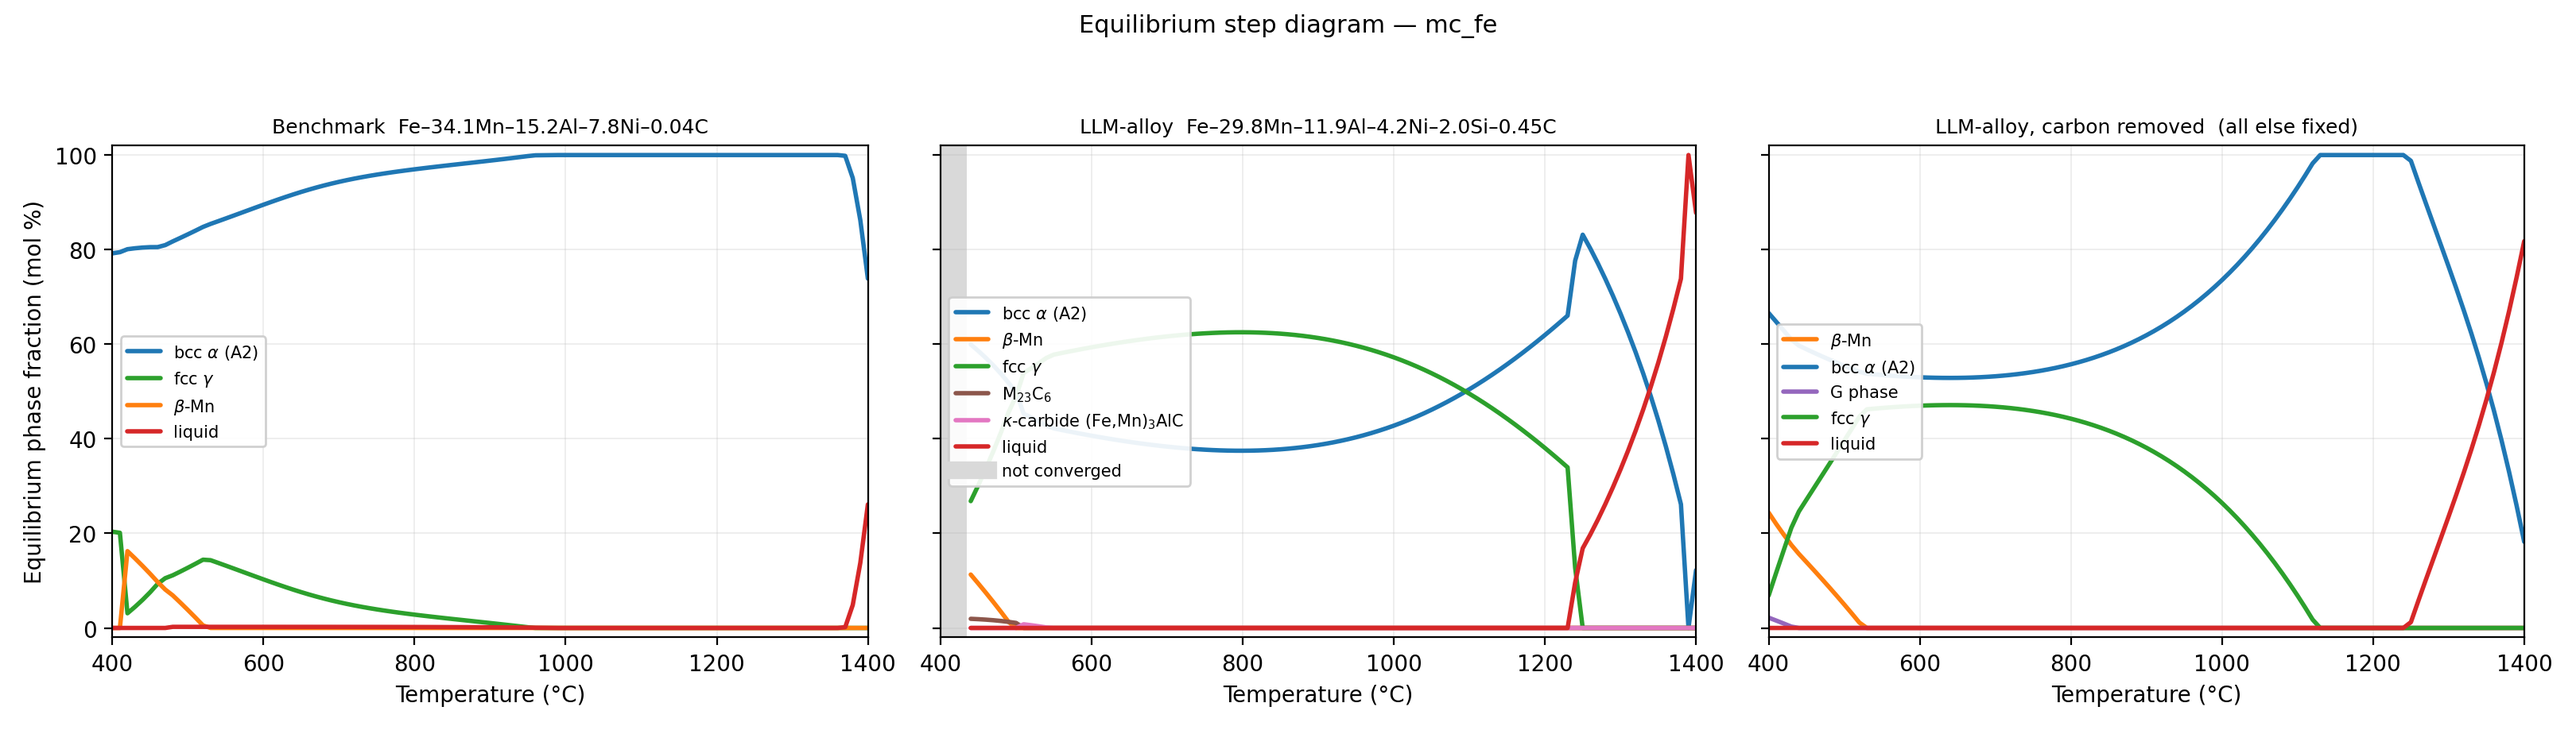
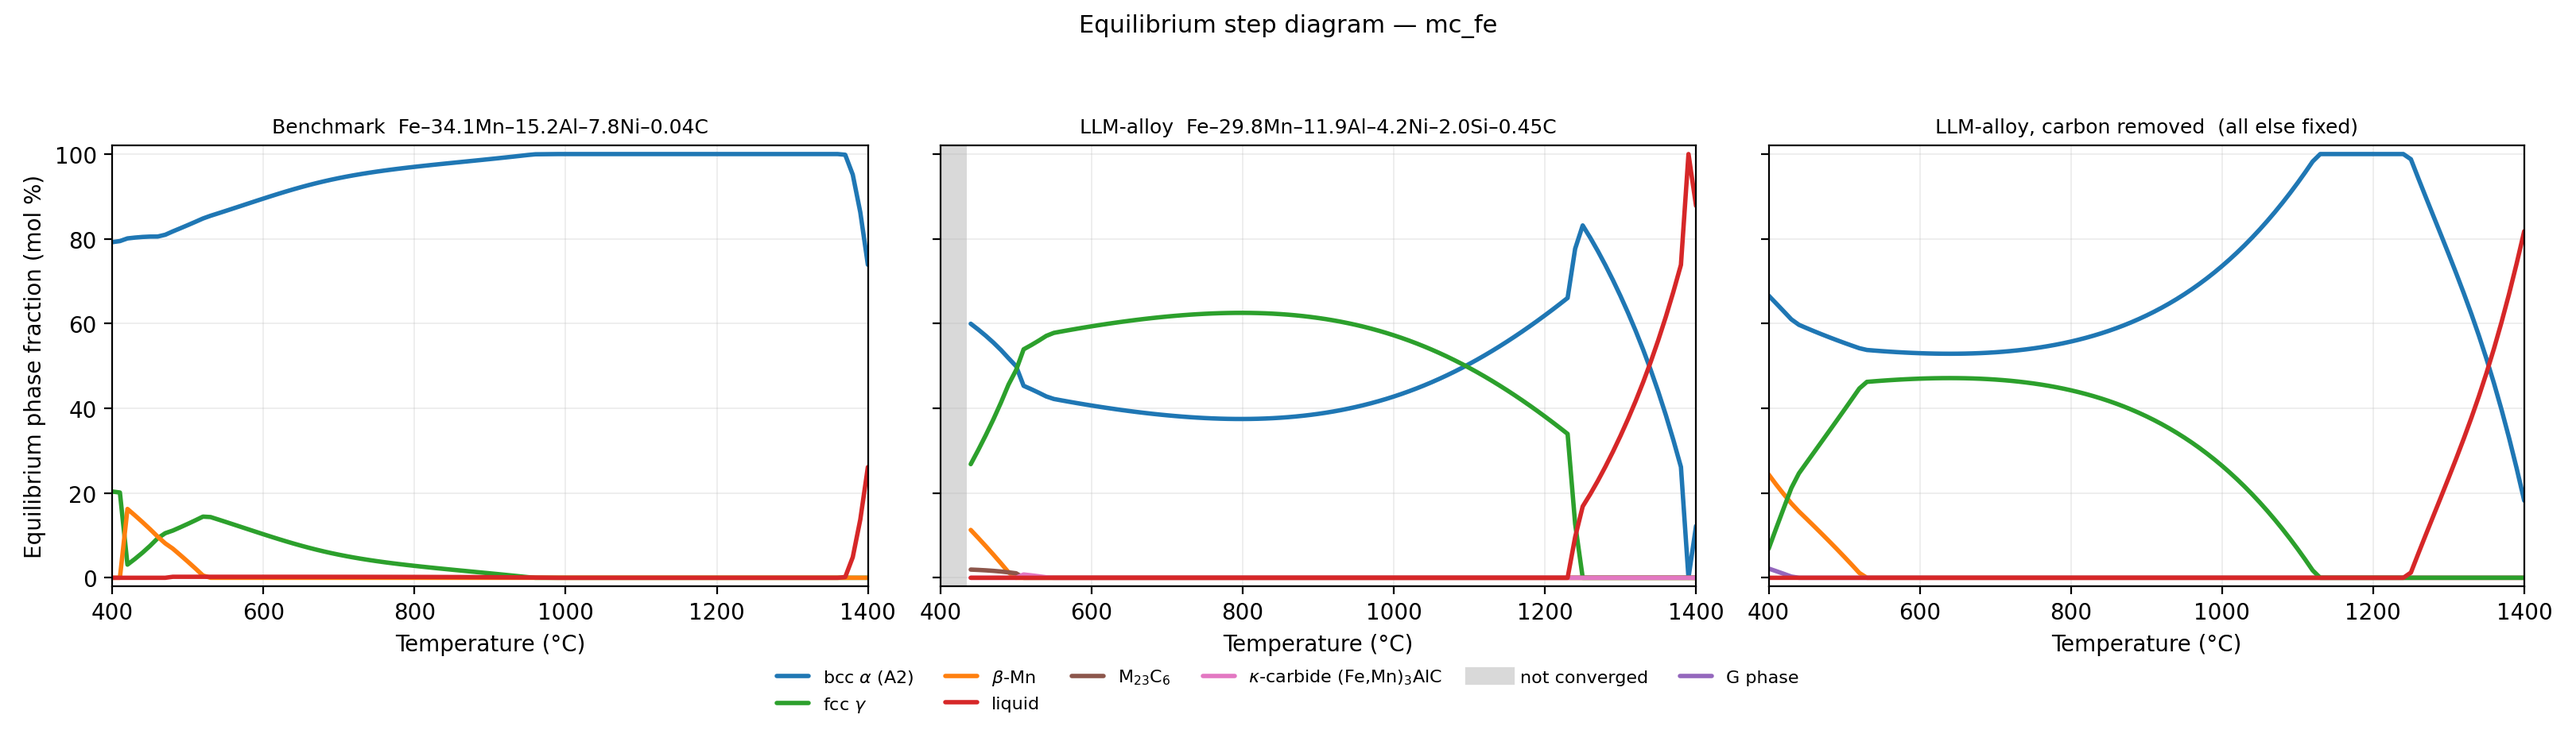
Fig. 7: drop the carbon-free panel per S. Cai, label panels by role, move legend clear of the curves

diff --git a/revision/JMRT-R1/calphad/make_paper_figure.py b/revision/JMRT-R1/calphad/make_paper_figure.py
@@ -31,15 +31,13 @@ T_SOLUTION = 1200.0
 MIN_SHOW = 0.005
 NONCONV = '__NONCONVERGED__'
 
-# Compositions are Table 1 (wt%) converted to at% -- state the unit on the figure,
-# because Table 1 is in wt% and Al roughly doubles on conversion.
+# S. Cai, 2026-08-08: drop the carbon-free panel (the result stays in Table 3) and
+# label the panels by alloy role rather than by chemistry -- the wt%/at% mismatch
+# against Table 1 made the composition strings more confusing than useful. The
+# chemistries now live in the caption.
 PANELS = [
-    ('benchmark', '(a)  Omori-alloy',
-     'Fe–34.1Mn–15.2Al–7.8Ni–0.04C  (at%)'),
-    ('llm', '(b)  AI-alloy',
-     'Fe–29.8Mn–11.9Al–4.2Ni–2.0Si–0.45C  (at%)'),
-    ('llm_noC', '(c)  AI-alloy, carbon removed',
-     'all other elements held fixed'),
+    ('benchmark', '(a)  Omori-alloy', 'benchmark'),
+    ('llm', '(b)  AI-alloy', 'LLM-hypothesized'),
 ]
 
 C_BCC = '#c1272d'
@@ -65,7 +63,7 @@ def main():
     df = pd.read_csv(CSV)
     sub = df[(df['database'] == DATABASE) & (df['label'] != NONCONV)]
 
-    fig, axes = plt.subplots(1, 3, figsize=(12.6, 4.4), sharey=True)
+    fig, axes = plt.subplots(1, len(PANELS), figsize=(9.6, 4.4), sharey=True)
     handles = OrderedDict()
 
     for i, (ax, (alloy, tag, comp)) in enumerate(zip(axes, PANELS)):
@@ -93,7 +91,7 @@ def main():
             line, = ax.plot(temps, 100 * y, color=colour, lw=2.1, zorder=3)
             handles.setdefault(name, line)
 
-        ax.set_title('%s\n%s' % (tag, comp), fontsize=9.5, linespacing=1.35)
+        ax.set_title('%s\n%s' % (tag, comp), fontsize=11, linespacing=1.4)
         ax.set_xlabel('Temperature (°C)')
         ax.set_xlim(400, 1400)
         ax.set_ylim(-2, 102)

diff --git a/revision/JMRT-R1/calphad/plot_step_diagrams.py b/revision/JMRT-R1/calphad/plot_step_diagrams.py
@@ -136,8 +136,7 @@ def main():
                 if np.nanmax(ordered) >= MIN_SHOW:
                     ocol = colours.get('%s[ordered]' % stem, PALETTE[2])
                     ax.fill_between(temps, 0, 100 * ordered, color=ocol, alpha=0.45,
-                                    lw=0, label=pretty('%s[ordered]' % stem)
-                                    + '\n(portion of the bcc that is ordered)')
+                                    lw=0, label=pretty('%s[ordered]' % stem))
 
             for label in plain:
                 if present.get(label, 0) < MIN_SHOW:
@@ -153,11 +152,20 @@ def main():
             ax.set_xlim(temps.min(), temps.max())
             ax.set_ylim(-2, 102)
             ax.grid(alpha=0.25, lw=0.6)
-            ax.legend(fontsize=7.5, loc='center left', framealpha=0.92)
+
+        # One shared legend below the axes. Per-panel legends sat on top of the
+        # curves they were labelling.
+        handles = OrderedDict()
+        for ax in axes:
+            for handle, label in zip(*ax.get_legend_handles_labels()):
+                handles.setdefault(label, handle)
 
         axes[0].set_ylabel('Equilibrium phase fraction (mol %)')
+        fig.legend(list(handles.values()), list(handles.keys()), loc='lower center',
+                   ncol=min(len(handles), 6), fontsize=8, frameon=False,
+                   handlelength=1.8, columnspacing=1.8)
         fig.suptitle('Equilibrium step diagram — %s' % db, fontsize=11)
-        fig.tight_layout(rect=(0, 0, 1, 0.94))
+        fig.tight_layout(rect=(0, 0.07, 1, 0.94))
         out = os.path.join(OUTDIR, 'step_%s.png' % db.replace('.', '-'))
         fig.savefig(out, dpi=200)
         plt.close(fig)

diff --git a/manuscript.md b/manuscript.md
@@ -107,13 +107,13 @@ It is worth noting that the AI alloy after AGG heat treatment showed an X-ray di
 
 ## 3.4 Equilibrium phase stability
 
-**Fig. 7** shows the calculated equilibrium step diagrams for the two alloys as cast and for the carbon-free virtual variant of the AI-alloy, using the measured chemistries of **Table 1**.
+**Fig. 7** shows the calculated equilibrium step diagrams for the two alloys as cast, using the measured chemistries of **Table 1**. The virtual carbon-free composition described in Sec. 2.6 was evaluated on the same basis; because all three databases agree on it, it is reported numerically in **Table 3** rather than plotted.
 
-The Omori-alloy (**Fig. 7a**) reproduces the phase sequence its processing route assumes. A single-phase disordered bcc α field opens at ≈1130 °C and extends to the top of the calculated range, so the 1200 °C solution treatment of Sec. 2.2 lies inside it. On cooling below ≈1090 °C the bcc orders: between ≈700 and 1000 °C the calculated bcc is fully B2-ordered and accounts for 19–21% of the alloy, the balance being γ. The equilibrium state below ≈1090 °C is thus B2 + γ, and not the coherent B2-in-α nanostructure on which the benchmark's super-elasticity actually rests; that nanostructure is a kinetically arrested approach to this equilibrium, obtained by quenching the single-phase α and ageing it where B2 can order but γ cannot yet nucleate. What the calculation establishes is that both conditions the processing route requires are available and contiguous: a temperature at which the alloy is single-phase α, and a range immediately below it in which that α has a thermodynamic driving force to order. Nothing about this alloy was fitted here; the calculation is a control, and it recovers the ≈20% ordered bcc that is observed directly in **Fig. 4c**.
+The Omori-alloy (**Fig. 7a**) reproduces the phase sequence its processing route assumes. A single-phase disordered bcc α field opens at ≈1140 °C and extends to the top of the calculated range, so the 1200 °C solution treatment of Sec. 2.2 lies inside it. On cooling below ≈1090 °C the bcc orders: between ≈700 and 1000 °C the calculated bcc is fully B2-ordered and accounts for 19–21% of the alloy, the balance being γ. The equilibrium state below ≈1090 °C is thus B2 + γ, and not the coherent B2-in-α nanostructure on which the benchmark's super-elasticity actually rests; that nanostructure is a kinetically arrested approach to this equilibrium, obtained by quenching the single-phase α and ageing it where B2 can order but γ cannot yet nucleate. What the calculation establishes is that both conditions the processing route requires are available and contiguous: a temperature at which the alloy is single-phase α, and a range immediately below it in which that α has a thermodynamic driving force to order. Nothing about this alloy was fitted here; the calculation is a control, and it recovers the ≈20% ordered bcc that is observed directly in **Fig. 4c**.
 
 The AI-alloy behaves differently in every respect that matters (**Fig. 7b**). At 1200 °C it is not single-phase but a duplex mixture of 71.1% α and 28.9% γ. Its single-phase α field does not open until ≈1340 °C — some 140 °C above the 1200 °C ceiling imposed by oxidation and furnace contamination (Sec. 2.2). The margin is in fact larger than that ceiling alone implies: mc_fe, the only database here carrying all six elements plus P, places the onset of incipient melting in this alloy at ≈1240 °C, so the single-phase α field would be unreachable even if oxidation were not the limiting factor. The databases do not agree on the solidus — mpea-02b returns no liquid at all below 1400 °C — but they agree on what matters here, which is that the temperature at which this composition becomes single-phase α lies outside the window in which it can be annealed. Between ≈850 and ≈1050 °C the alloy is calculated to be fully austenitic. Ordered bcc appears only below ≈850 °C, reaches at most ≈11% at 400 °C, and forms within a γ matrix rather than an α one. There is thus no temperature at which this composition can be solution-treated to single-phase α and subsequently aged into coherent ordered precipitates within that α — the sequence on which the benchmark relies.
 
-Removing carbon and holding every other element fixed (**Fig. 7c**) restores the missing field. The single-phase α window opens at ≈1150 °C instead of ≈1340 °C, so the 1200 °C treatment once again lands inside it and the alloy solution-treats to 100% α exactly as the benchmark does. All three databases agree on this result despite covering different element sets (**Table 3**).
+Removing carbon and holding every other element fixed restores the missing field, and does so in every database. The single-phase α window opens at ≈1150 °C instead of ≈1340 °C in mpea-02b and at ≈1160 °C instead of ≈1390 °C in PrecHiMn-04, while mc_fe — which returns no single-phase α at all for the carbon-bearing composition below 1400 °C — places it at ≈1130 °C. The 1200 °C solution treatment therefore lands inside the single-phase field once carbon is removed, and the alloy reaches 100% α exactly as the benchmark does, in all three databases and despite their covering different element sets (**Table 3**).
 
 **Table 3.** Calculated equilibrium phase fractions (mol%) at 1200 °C, the solution-treatment temperature. The Omori-alloy cannot be evaluated in PrecHiMn-04, which contains no Ni.
 
@@ -125,7 +125,7 @@ Removing carbon and holding every other element fixed (**Fig. 7c**) restores the
 
 Two further predictions bear on phases reported in Sec. 3.3. Carbide phases are calculated to be stable only well below the processing range: M₂₃C₆ appears in mpea-02b only below ≈420 °C, and κ-(Fe,Mn)₃AlC reaches 0.2–2.4% below ≈590 °C in PrecHiMn-04 and 0.1–0.8% between 510 and 540 °C in mc_fe. Neither is expected at or near 1200 °C. Separately, the ordered bcc of PrecHiMn-04 — the only description here capable of returning D0₃ — refines to the disordered A2 state at every temperature calculated, indicating that at ≈12 at% Al this composition lies below the equilibrium Fe₃Al D0₃ field.
 
-![**Fig. 7.** Calculated equilibrium step diagrams (mpea-02b database) for (a) the Omori-alloy, (b) the AI-alloy, and (c) the AI-alloy with carbon removed and all other elements held at their measured values. Compositions are the measured ICP-AES chemistries of Table 1 converted from wt% to at%; mpea-02b does not model Si, which was therefore omitted and the remaining elements renormalized (Sec. 2.6). The shaded band is the ordered (B2) portion of the total bcc fraction. The dashed line marks the 1200 °C solution-treatment temperature.](figures/Figure_7.png)
+![**Fig. 7.** Calculated equilibrium step diagrams (mpea-02b database) for (a) the Omori-alloy, the benchmark, and (b) the AI-alloy, the LLM-hypothesized composition. Both were computed from the measured ICP-AES chemistries of Table 1 converted from wt% to at%: Fe–34.1Mn–15.2Al–7.8Ni–0.04C and Fe–29.8Mn–11.9Al–4.2Ni–2.04Si–0.45C respectively. mpea-02b does not model Si, which was therefore omitted and the remaining elements renormalized (Sec. 2.6). The shaded band is the ordered (B2) portion of the total bcc fraction; it lies beneath the total bcc curve because B2 is an ordered partition of that phase rather than a separate one. The dashed line marks the 1200 °C solution-treatment temperature. The carbon-free control composition is reported in Table 3.](figures/Figure_7.png)
 
 ---
 
@@ -151,7 +151,7 @@ The result is unambiguous and reproduces across all three databases (**Table 3**
 
 Two elements are exonerated by the same calculation. Silicon was added as a ferrite stabilizer and solid-solution strengthener, and it remains at its measured 2.04 at% in the carbon-free variant of both Si-bearing databases, which nonetheless return 100% α at 1200 °C; silicon therefore does not obstruct the single-phase field, and the shortfall in the as-cast alloy is not attributable to it. The same argument applies to the reduction in Ni from 7.8 to 4.2 at%, which is likewise held at its measured value in the control.
 
-The limits of this conclusion should be stated as clearly as the conclusion itself. Carbon is decisive at the temperature where the process operates, not across the whole temperature range. Over roughly 850–1020 °C both the as-measured and the carbon-free compositions are calculated to be fully austenitic (**Fig. 7b, c**), so the lower Al and Ni contents of the AI-alloy do move the α/γ boundary independently of carbon. The defensible claim is therefore narrower and more useful than "carbon caused the failure": carbon closes the single-phase α field at the solution-treatment temperature, and without that field the alloy cannot be brought into the parent state that super-elasticity requires, whatever the other elements do elsewhere. Nor is a calculated control a substitute for the experiment it stands in for. Casting this composition without carbon and processing it identically remains the direct test; what the calculation contributes is to reduce that test from an open compositional search to a single, well-specified heat.
+The limits of this conclusion should be stated as clearly as the conclusion itself. Carbon is decisive at the temperature where the process operates, not across the whole temperature range. Over roughly 850–1020 °C both the as-measured composition (**Fig. 7b**) and the carbon-free control are calculated to be fully austenitic, so the lower Al and Ni contents of the AI-alloy do move the α/γ boundary independently of carbon. The defensible claim is therefore narrower and more useful than "carbon caused the failure": carbon closes the single-phase α field at the solution-treatment temperature, and without that field the alloy cannot be brought into the parent state that super-elasticity requires, whatever the other elements do elsewhere. Nor is a calculated control a substitute for the experiment it stands in for. Casting this composition without carbon and processing it identically remains the direct test; what the calculation contributes is to reduce that test from an open compositional search to a single, well-specified heat.
 
 Carbon was added on the expectation that it would strengthen the parent phase interstitially and, through fine dispersed carbides, raise the resistance to slip enough to favor stress-induced transformation over plasticity. The calculations indicate that neither mechanism was available. Carbides are predicted to be stable only well below the processing range — M₂₃C₆ below ≈420 °C, κ-(Fe,Mn)₃AlC below ≈590 °C and never above ≈2.4% — so no carbide dispersion exists at or near 1200 °C to provide the intended strengthening, and none was observed. This places the AI-alloy in an unfavorable position with respect to the Fe-Mn-Al-C lightweight-steel family, whose compositional field it otherwise resembles: those alloys derive their strength from κ-carbide precipitation at carbon contents of 1–1.5 wt%, an order of magnitude above the ≈0.10 wt% present here. The AI-alloy carries enough carbon to incur the γ-stabilization penalty that destroys the shape-memory field, but not enough to collect the precipitation strengthening that would justify it.
 

diff --git a/tasks/todo.md b/tasks/todo.md
@@ -171,6 +171,31 @@ conceding R3#12 and winning it.
       generative AI was used to prepare the manuscript text. Sections 2.6, 3.4, 4.1 and 4.2
       were drafted with AI assistance, so that statement must be updated before resubmission
 
+### Revisions after review (2026-08-07 / 08)
+
+- [x] **wt% vs at%** — Fig. 7 panels never stated their unit, so the compositions looked
+      inconsistent with Table 1 (which is wt%). Conversion re-verified from Table 1: it
+      reproduces the figure exactly. Chemistries now live in the caption with the unit named
+- [x] **mpea-02b Si renormalization disclosed** — the database carries no Si, so Si is
+      dropped and the remainder renormalized; §2.6 now gives the composition actually
+      solved, Fe–30.5Mn–12.2Al–4.3Ni–0.46C, and notes the ≤0.6 at% shift
+- [x] **B2 shading is a partition, not a phase** — confirmed `ordered ≤ total` at every
+      temperature in both alloys. Below ≈1090 °C the benchmark bcc is *fully* ordered, so
+      equilibrium there is B2 + γ, **not** coherent B2 in an α matrix. §3.4, §4.1 and the
+      Conclusions were corrected: the coherent nanostructure is the kinetically arrested
+      approach to that equilibrium, reached by quenching single-phase α and ageing it
+- [x] **Experimental C-free heat named as future work** in §4.2 — the paper previously had
+      no future-work statement at all, while R1#1 had asked for exactly that control
+- [x] **S. Cai, 2026-08-08 — Fig. 7 reduced to two panels.** Carbon-free panel removed; the
+      result is unchanged and now carried by Table 3 (all three databases) plus explicit
+      solvus numbers in §3.4. Panels labelled by role (benchmark / LLM-hypothesized) instead
+      of by chemistry. Legend moved below the axes in both the paper figure and the
+      diagnostic `plot_step_diagrams.py`, where per-panel legends had sat on the curves
+- [ ] **Wording check for S. Cai** — panels read "(a) Omori-alloy / benchmark" and
+      "(b) AI-alloy / LLM-hypothesized", keeping the short names §2.1 defines while carrying
+      his descriptors. Trivial to switch to his literal "Omori Benchmark" / "LLM-Hypothesized"
+      if he prefers, but then §2.1's naming should change with it
+
 ## Tier 3b — independent XRD re-analysis (done 2026-08-05, E: drive online)
 
 Read `revision/JMRT-R1/xrd/ANALYSIS.md` before editing any text.

diff --git a/figures/captions.md b/figures/captions.md
@@ -16,4 +16,4 @@ Figure 7 is new for the JMRT R1 revision and is generated, not scanned: run `rev
 
 **Fig. 6.** Azimuthally integrated X-ray diffraction spectra of (a) the AI alloy and (b) the Omori alloy before and after deformation. Samples were heat treated at 1200 °C for 1 minute before deformation.
 
-**Fig. 7.** Calculated equilibrium step diagrams (mpea-02b database) for (a) the Omori-alloy, (b) the AI-alloy, and (c) the AI-alloy with carbon removed and all other elements held at their measured values. Compositions are the measured ICP-AES chemistries of Table 1 converted from wt% to at%; mpea-02b does not model Si, which was therefore omitted and the remaining elements renormalized (Sec. 2.6). The shaded band is the ordered (B2) portion of the total bcc fraction. The dashed line marks the 1200 °C solution-treatment temperature.
+**Fig. 7.** Calculated equilibrium step diagrams (mpea-02b database) for (a) the Omori-alloy, the benchmark, and (b) the AI-alloy, the LLM-hypothesized composition. Both were computed from the measured ICP-AES chemistries of Table 1 converted from wt% to at%: Fe–34.1Mn–15.2Al–7.8Ni–0.04C and Fe–29.8Mn–11.9Al–4.2Ni–2.04Si–0.45C respectively. mpea-02b does not model Si, which was therefore omitted and the remaining elements renormalized (Sec. 2.6). The shaded band is the ordered (B2) portion of the total bcc fraction; it lies beneath the total bcc curve because B2 is an ordered partition of that phase rather than a separate one. The dashed line marks the 1200 °C solution-treatment temperature. The carbon-free control composition is reported in Table 3.
